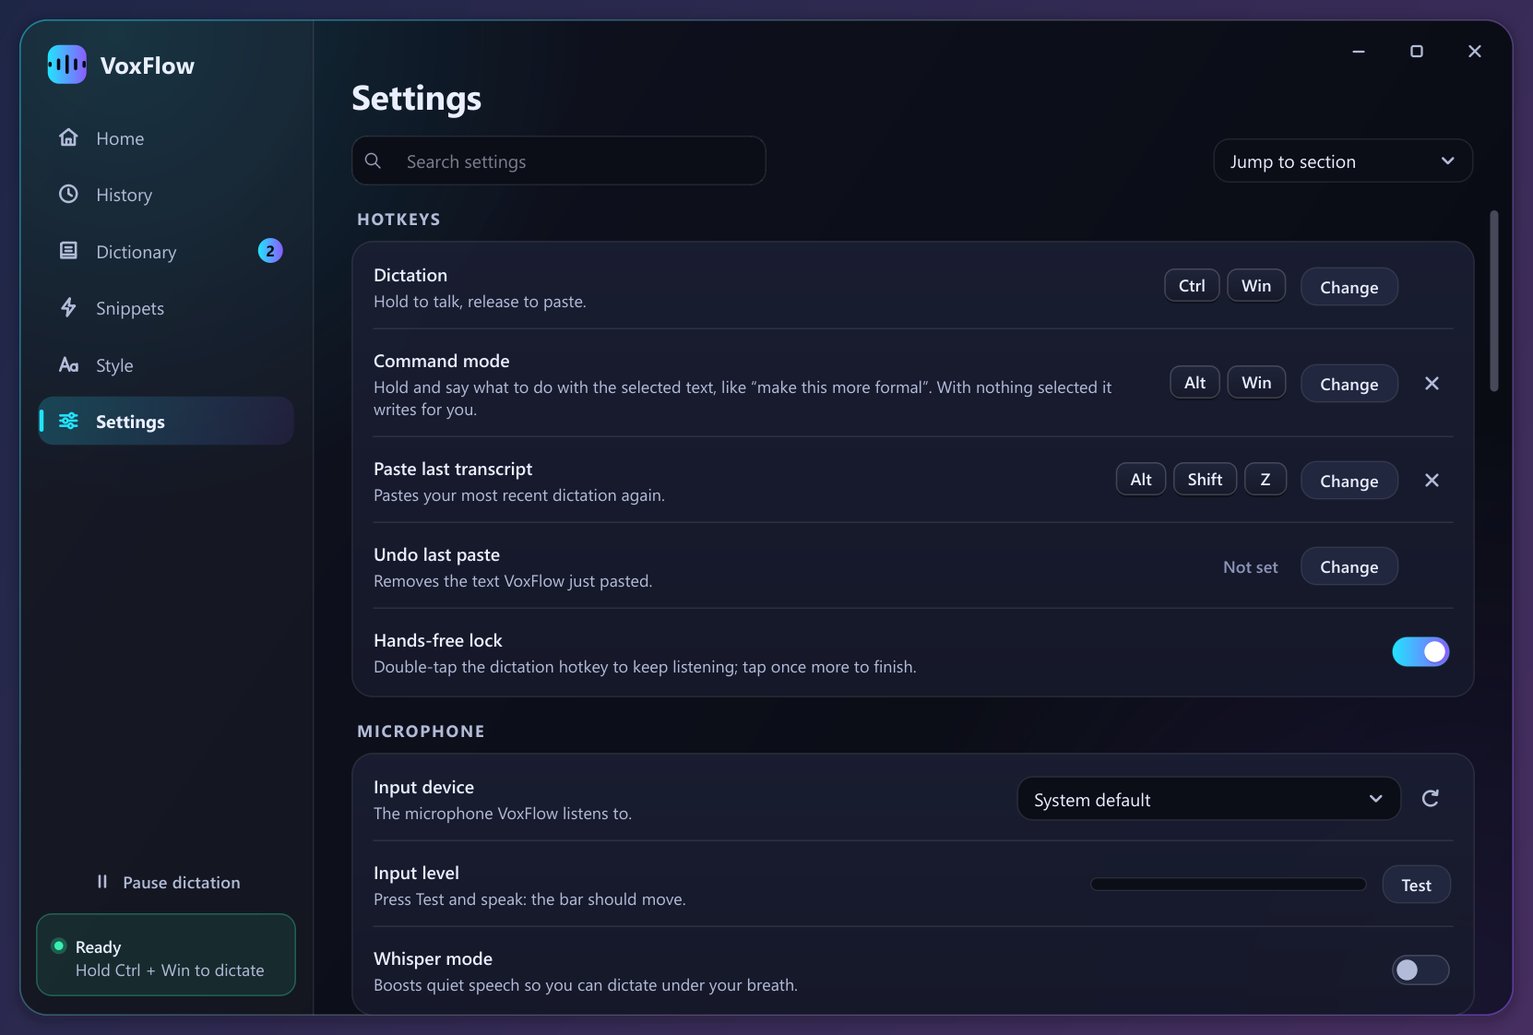
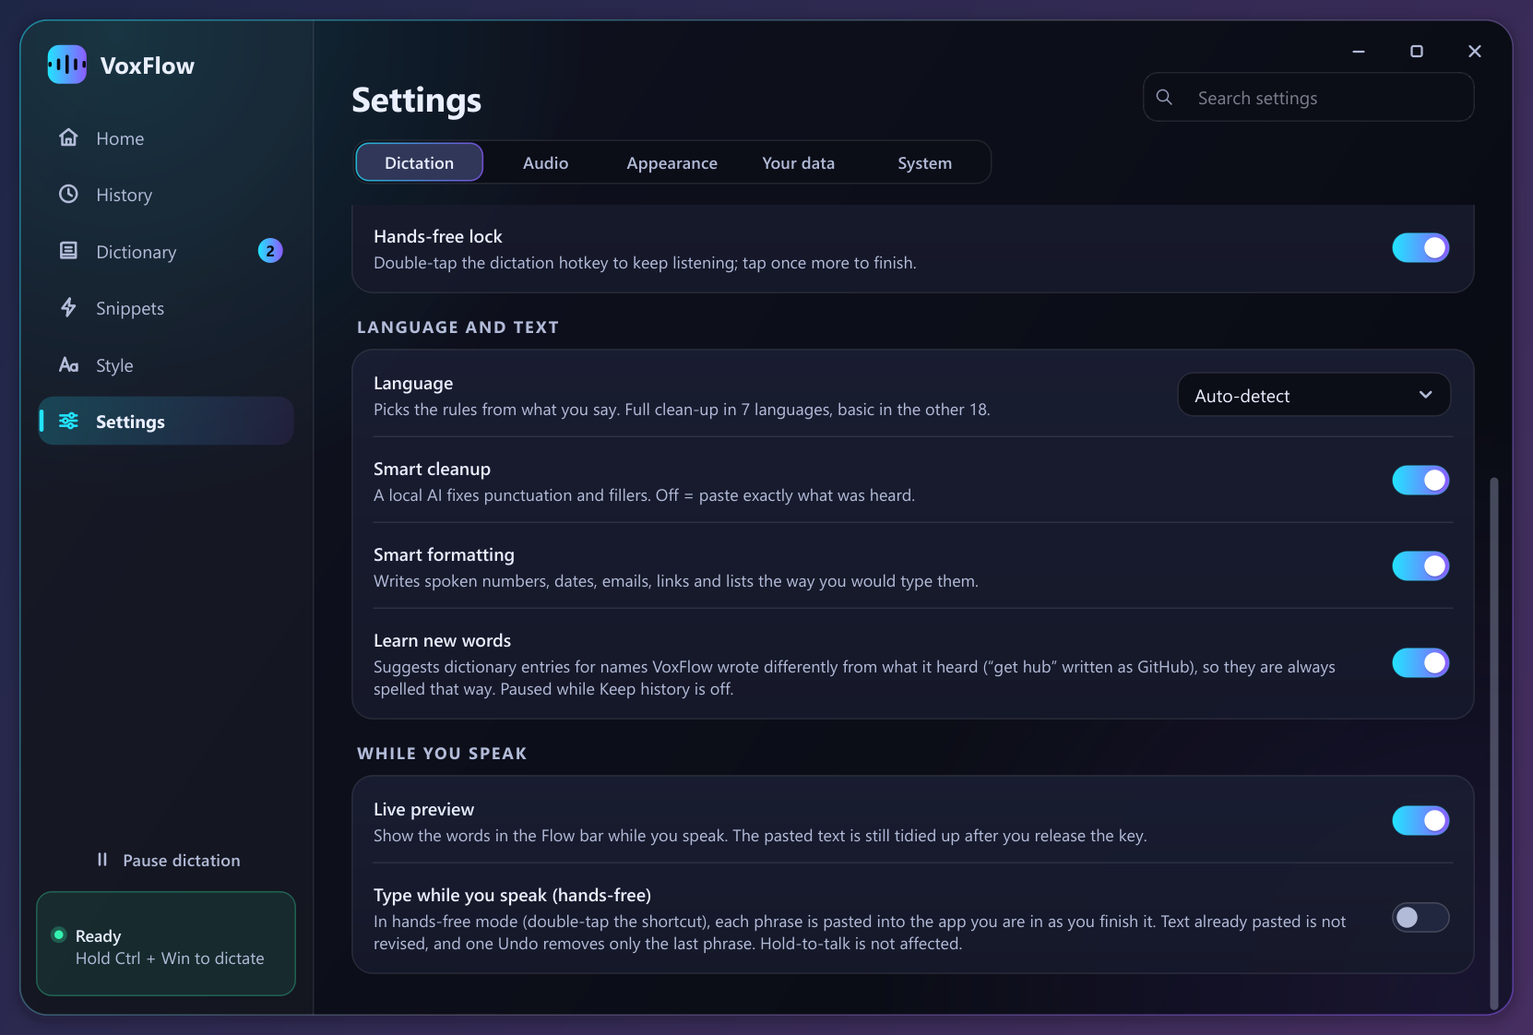
docs: README for 0.3.0: live preview and Type while you speak, Settings tabs, fresh screenshots
- New section "Live preview and Type while you speak" with an animated caption (docs/assets/live-preview.gif,
  rendered by the new scripts/caption_gif.py from the real Flow bar widget) and a hands-free caption still.
- A short "New in 0.3.0" note under the intro.
- Configuration: the five Settings tabs and what each holds; Dictation, Audio and Your data screenshots.
- Settings paths updated to the tabs (System > On-device models, System > Updates, Audio > Microphone,
  Your data > Backup and sync / History and privacy).
- Scoop note no longer says "once v0.2.1 is published".
- Home, History, Dictionary, Flow bar and Settings screenshots re-rendered from the 0.3.0 UI (scripts/demo_ui.py).
- DEVELOPMENT.md: how live-preview.gif is made; demo.gif predates the live preview.

diff --git a/scripts/caption_gif.py b/scripts/caption_gif.py
@@ -1,0 +1,123 @@
+"""Render docs/assets/live-preview.gif: the real Flow bar and its live-preview caption through one scripted
+dictation (words arriving one by one, processing, "Pasted").
+
+Runs offscreen like scripts/demo_ui.py (no window appears, no model is loaded, nothing is typed anywhere): the
+preview controller twin drives the Flow bar's states and the caption gets scripted words. Frames are saved to
+build/caption-frames/ and turned into a GIF with ffmpeg (which must be on PATH).
+
+    python scripts/caption_gif.py                  # writes docs/assets/live-preview.gif
+    python scripts/caption_gif.py --out other.gif
+"""
+from __future__ import annotations
+
+import argparse
+import os
+import shutil
+import subprocess
+import sys
+import time
+from pathlib import Path
+
+ROOT = Path(__file__).resolve().parent.parent
+FRAMES = ROOT / "build" / "caption-frames"
+FPS = 15
+WORDS = "Please move the meeting to Friday at three thirty and send the report to the team"
+
+
+def render() -> int:
+    sys.path.insert(0, str(ROOT))
+    from PySide6.QtCore import QRect
+    from PySide6.QtGui import QColor, QImage, QLinearGradient, QPainter
+    from PySide6.QtWidgets import QApplication
+
+    app = QApplication([])
+    from voxflow.ui.fakes import FakeController
+    from voxflow.ui.shell import build_ui
+
+    ctl = FakeController()
+    ctl.set("onboarding_done", True)
+    ctl.set("theme", "dark")
+    pill = build_ui(ctl, show_window=False).overlay
+    crop = QRect(10, 10, 500, 130)           # the same crop as demo_ui.py's caption shots
+    count = 0
+
+    def frame() -> None:
+        nonlocal count
+        pm = pill.grab()
+        top = pm.toImage()
+        top.setDevicePixelRatio(1.0)
+        img = QImage(top.width(), top.height(), QImage.Format.Format_ARGB32_Premultiplied)
+        p = QPainter(img)
+        g = QLinearGradient(0, 0, img.width(), img.height())      # demo_ui.py's dark desktop backdrop
+        g.setColorAt(0, QColor(30, 38, 70))
+        g.setColorAt(1, QColor(70, 46, 96))
+        p.fillRect(img.rect(), g)
+        p.drawImage(0, 0, top)
+        p.end()
+        k = pm.devicePixelRatio()
+        img = img.copy(int(crop.x() * k), int(crop.y() * k), int(crop.width() * k), int(crop.height() * k))
+        img.save(str(FRAMES / f"frame_{count:04d}.png"))
+        count += 1
+
+    def run(seconds: float) -> None:
+        """Let the widget animate in real time, saving FPS frames per second."""
+        for _ in range(int(seconds * FPS)):
+            end = time.perf_counter() + 1 / FPS
+            while time.perf_counter() < end:
+                app.processEvents()
+            frame()
+
+    ctl.demo_set_state("idle")
+    run(0.2)
+    ctl.demo_set_state("listening", "dictate", "")
+    run(0.6)
+    committed: list[str] = []
+    for word in WORDS.split():
+        pill.set_preview(" ".join(committed), word)        # the newest word is tentative until the next arrives
+        run(0.32)
+        committed.append(word)
+    pill.set_preview(" ".join(committed), "")
+    run(0.5)
+    ctl.demo_set_state("processing", "dictate", "")
+    run(0.8)
+    ctl.demo_set_state("done", "dictate", "Pasted")
+    run(1.6)
+    ctl.demo_set_state("idle")
+    run(0.6)
+    print(f"{count} frames in {FRAMES}")
+    return 0
+
+
+def main() -> int:
+    ap = argparse.ArgumentParser(description=__doc__, formatter_class=argparse.RawDescriptionHelpFormatter)
+    ap.add_argument("--out", default=str(ROOT / "docs" / "assets" / "live-preview.gif"))
+    ap.add_argument("--scale", type=int, default=150, help="UI scale in percent (default 150, as the screenshots)")
+    ap.add_argument("--child", action="store_true", help=argparse.SUPPRESS)
+    args = ap.parse_args()
+    if args.child:
+        return render()
+    ffmpeg = shutil.which("ffmpeg")
+    if ffmpeg is None:
+        print("ffmpeg is not on PATH", file=sys.stderr)
+        return 1
+    FRAMES.mkdir(parents=True, exist_ok=True)
+    for old in FRAMES.glob("*.png"):
+        old.unlink()
+    env = dict(os.environ, QT_QPA_PLATFORM="offscreen", QT_SCALE_FACTOR=str(args.scale / 100),
+               QT_ENABLE_HIGHDPI_SCALING="1")
+    fonts = Path(os.environ.get("WINDIR", "C:/Windows")) / "Fonts"
+    if fonts.is_dir():
+        env.setdefault("QT_QPA_FONTDIR", str(fonts))           # the offscreen plugin ships no fonts of its own
+    code = subprocess.call([sys.executable, str(Path(__file__).resolve()), "--child"], env=env, cwd=str(ROOT))
+    if code:
+        return code
+    palette = "split[a][b];[a]palettegen=max_colors=128:stats_mode=full[p];[b][p]paletteuse=dither=sierra2_4a"
+    code = subprocess.call([ffmpeg, "-v", "error", "-y", "-framerate", str(FPS), "-i",
+                            str(FRAMES / "frame_%04d.png"), "-vf", palette, "-loop", "0", args.out])
+    if not code:
+        print(f"wrote {args.out}")
+    return code
+
+
+if __name__ == "__main__":
+    sys.exit(main())

diff --git a/README.md b/README.md
@@ -18,6 +18,11 @@ VoxFlow is a push-to-talk dictation app for Windows 11. Hold **Ctrl + Win**, tal
 transcribed on your own machine by NVIDIA Parakeet TDT v3, tidied by a small local language model (fillers out,
 punctuation in, self-corrections resolved), and pasted into the focused window.
 
+> **New in 0.3.0:** [live preview](#live-preview-and-type-while-you-speak) shows your words above the Flow bar
+> while you speak; the optional *Type while you speak* pastes each finished sentence in hands-free mode while you
+> keep talking; and [Settings](#configuration) is now grouped into five tabs. All changes are in the
+> [changelog](CHANGELOG.md).
+
 ## Download
 
 ### [Download the latest release](https://github.com/blackknight75/voxflow/releases/latest)
@@ -36,9 +41,9 @@ scoop bucket add voxflow https://github.com/blackknight75/voxflow
 scoop install voxflow/voxflow
 ```
 
-(The winget command works once the package submission has been accepted into the winget community repository;
-the Scoop commands once v0.2.1 is published. Until then, use the installer from the Releases page. Scoop unpacks
-the app into its own folder instead of running the installer: details in
+(The Scoop bucket follows the latest release. The winget command works once the package submission has been
+accepted into the winget community repository; until then, use the installer or Scoop. Scoop unpacks the app into
+its own folder instead of running the installer: details in
 [packaging/scoop/README.md](packaging/scoop/README.md).)
 
 Good to know before you start:
@@ -103,7 +108,7 @@ hotkey to the paste for a clean sentence, **192 ms** when the language model is 
 | | |
 | --- | --- |
 | **Dictation** | Hold the hotkey to talk, release to paste. Double-tap to lock hands-free, tap again to finish. Esc cancels. |
-| **Live preview** | The words recognised so far appear above the Flow bar while you speak. A separate option, off by default, types each finished sentence into the app while you keep talking in hands-free mode (Settings > Dictation > While you speak). |
+| **Live preview** | The words recognised so far appear above the Flow bar while you speak. A separate option, off by default, types each finished sentence into the app while you keep talking in hands-free mode (Settings > Dictation > While you speak). [More below](#live-preview-and-type-while-you-speak). |
 | **Smart cleanup** | Removes "um" and "uh", fixes punctuation and capitals, resolves self-corrections ("at five, no wait, six"), understands "new line", "new paragraph", "bullet point". It never answers or obeys what you dictate. |
 | **Smart formatting** | Spoken numbers, money, percentages, dates, times, e-mail addresses, links, file names and numbered lists are written the way you would type them. |
 | **Command mode** | Hold **Alt + Win** and say what to do with the selected text ("make this more formal", "translate to Spanish", "turn into bullets"); the selection is replaced. With nothing selected it writes new text. |
@@ -116,7 +121,7 @@ hotkey to the paste for a clean sentence, **192 ms** when the language model is 
 | **Whisper mode** | Boosts quiet speech before recognition. |
 | **Sounds and media** | Soft start, stop and error cues (generated locally); optional muting of other apps while you dictate (always restored). |
 | **Flow bar** | A small always-on-top pill with a live waveform. It shows listening, hands-free, processing, done, errors, command mode and model loading. It is click-through, never takes focus, and remembers where you put it. |
-| **Main window** | Home, History, Dictionary, Snippets, Style, Settings; light, dark or system theme; a first-run setup guide. |
+| **Main window** | Home, History, Dictionary, Snippets, Style, Settings (five tabs, one search box across all of them); light, dark or system theme; a first-run setup guide. |
 | **System** | Tray icon with quick toggles, pause, launch at login, start in the tray, single instance, rotating log, crash logs kept on your PC. |
 
 <p align="center">
@@ -136,6 +141,40 @@ hotkey to the paste for a clean sentence, **192 ms** when the language model is 
 
 Team dictionaries and device sync are covered without a cloud: by packs and by the sync folder. Features that
 would need a cloud service, an account or a phone app are out of scope by design.
+
+### Live preview and Type while you speak
+
+<p align="center">
+  <img src="docs/assets/live-preview.gif" alt="The Flow bar's live-preview caption filling in word by word, then Pasted" width="560"><br>
+  <sub>Live preview: the caption fills in as you speak, and the newest word stays dimmed until the next one
+  confirms it. (Rendered from the real Flow bar with scripted words.)</sub>
+</p>
+
+**Live preview** (on by default) shows the words recognised so far in a caption above the Flow bar, so you can see
+that VoxFlow is hearing you before you let go. It is only a preview: what gets pasted is still the transcript of the
+whole recording, tidied up by the cleanup after you release the key. It works for hold-to-talk, hands-free and
+command mode. Switch it off under Settings > Dictation > While you speak. On a PC that is too slow to keep up, the
+preview pauses itself and Settings says so; dictation works as before.
+
+<p align="center">
+  <img src="docs/assets/screenshots/flow-bar-caption-handsfree.png" alt="Hands-free Flow bar with the lock icon, a timer and the live caption" width="420"><br>
+  <sub>Hands-free mode with the caption: the lock means you can let go of the hotkey.</sub>
+</p>
+
+**Type while you speak** (hands-free mode only, **off by default**) goes one step further. Double-tap the hotkey
+and each finished sentence is pasted into the app you are in while you keep talking, about 2 seconds behind your
+voice on a GPU; the last sentence is pasted when you tap the hotkey to stop. Switch it on under Settings >
+Dictation > While you speak. It is new and has had little real-world use so far, so a few things to know:
+
+* Text that is already pasted is not revised. A pause of about 1.5 seconds in the middle of a sentence is typed as
+  a sentence end.
+* The text follows the cursor: if you change windows, the next sentence goes to the new window. Nothing is pasted
+  into VoxFlow's own window; that sentence waits for the next one.
+* Undo removes the last pasted sentence only, and not while you are still dictating. History keeps one entry per
+  dictation. Snippets are not expanded in a dictation that was typed this way; the dictionary still applies.
+* On a slow PC without a GPU the preview can fall behind; typing then stops for that dictation and the rest is
+  pasted when you stop, so no words are lost.
+* Hold-to-talk and command mode are unchanged: they paste once, when you release the key.
 
 ### Languages
 
@@ -176,10 +215,10 @@ All shortcuts can be changed in Settings; an "undo last paste" shortcut is avail
 
 **First run.** The first launch opens a short setup guide (microphone check, model download, hotkey practice) and
 downloads the two models. The hotkey practice opens once the speech model is ready (straight away when it is already
-downloaded). Progress is shown in the Flow bar, in the setup guide and under Settings > On-device models; closing the
+downloaded). Progress is shown in the Flow bar, in the setup guide and under Settings > System > On-device models; closing the
 guide does not stop the download.
 
-**Backup.** Settings > Backup and sync > Export writes one `.voxbackup` file (history optional). Import shows
+**Backup.** Settings > Your data > Backup and sync > Export writes one `.voxbackup` file (history optional). Import shows
 what the file holds first and lets you tick the parts to import; *Merge* only adds what is missing (settings
 are left alone), *Replace* makes the ticked parts equal to the file. Settings that describe a computer
 (microphone, models, launch at login) are only restored on the computer the backup came from.
@@ -196,11 +235,26 @@ for this: it only reads and writes files.
 
 ## Configuration
 
-Everything can be changed on the Settings page.
+Everything can be changed on the Settings page. It is grouped into five tabs, and the search box beside the title
+looks through all of them (it also understands everyday words: "shortcut" finds every hotkey, "gpu" the device
+choices):
+
+| Tab | Sections |
+| --- | --- |
+| **Dictation** | Hotkeys, Language and text (language, smart cleanup, smart formatting, learn new words), While you speak (live preview, type while you speak) |
+| **Audio** | Microphone (input device, level test, whisper mode), Sound (cues, volume, muting other apps) |
+| **Appearance** | Theme and reduced motion, Flow bar (show when idle, position) |
+| **Your data** | History and privacy (keep history, retention, restore clipboard), Backup and sync |
+| **System** | Startup, Updates, On-device models (where each model runs, the speed check), Help and about |
 
 <p align="center">
-  <img src="docs/assets/screenshots/settings.png" alt="Settings page" width="70%">
+  <img src="docs/assets/screenshots/settings.png" alt="Settings, Dictation tab, with the While you speak section" width="70%">
 </p>
+<p align="center">
+  <img src="docs/assets/screenshots/settings-audio.png" alt="Settings, Audio tab" width="49%">
+  <img src="docs/assets/screenshots/settings-data.png" alt="Settings, Your data tab" width="49%">
+</p>
+<p align="center"><sub>The Dictation, Audio and Your data tabs.</sub></p>
 
 The file behind it is `%APPDATA%\VoxFlow\config.json`. Invalid values are replaced by the default when the file
 is loaded, numbers are clamped to the range shown, and an unreadable file is kept as `config.json.bad`.
@@ -253,7 +307,7 @@ VoxFlow is built so that there is nothing to trust: audio and text are processed
 
 * The one-time download of the two models from Hugging Face on first run (and again only if you change the
   model in the advanced settings or delete the cache). Hugging Face usage telemetry is switched off.
-* The update check (Settings > Updates), unless you set it to *Off (never check)*. Once a day, a few minutes
+* The update check (Settings > System > Updates), unless you set it to *Off (never check)*. Once a day, a few minutes
   after VoxFlow starts, and when you press *Check now*, it sends one anonymous HTTPS request to the GitHub API
   for the newest published VoxFlow release. The only identifying header is the generic User-Agent
   `VoxFlow/<version>`: no ID, no cookie, nothing about you or your PC. If you choose to install an update,
@@ -274,7 +328,7 @@ VoxFlow keeps the microphone open while it runs, also when it is paused. That is
 microphone only when you press would lose that, and a little more while the device starts. Until you hold the
 shortcut, the sound goes into a 2-second buffer in memory that is overwritten all the time. It is never written to
 disk, transcribed or sent anywhere. On a Bluetooth headset an open microphone keeps the headset in its call mode,
-which makes music sound worse: choose another microphone in Settings > Microphone (for example the PC's own)
+which makes music sound worse: choose another microphone in Settings > Audio > Microphone (for example the PC's own)
 to avoid that. Quitting VoxFlow closes the microphone.
 
 **What is stored, and where**
@@ -293,7 +347,7 @@ to avoid that. Quitting VoxFlow closes the microphone.
 | A sync folder, only if you choose one | Dictionary, snippets, styles and settings. Never history or statistics. |
 
 Recorded audio is held in memory for the transcription and is not written to disk. You can switch history off
-(Settings > History and privacy > Keep history; VoxFlow then offers to delete what is already saved), set a
+(Settings > Your data > History and privacy > Keep history; VoxFlow then offers to delete what is already saved), set a
 retention period, or clear it at any time (History > Clear all). With history off no transcript is written to disk.
 The log file never contains dictated text: errors while handling your words are logged by type and place only.
 
@@ -319,10 +373,10 @@ These are numbers from one machine, not a benchmark suite. For recognition accur
 ## FAQ and troubleshooting
 
 **Is it really offline?** Yes, after the first run. The models are downloaded once; from then on no network is
-needed. The only other request is the daily update check, which you can turn off in Settings > Updates
+needed. The only other request is the daily update check, which you can turn off in Settings > System > Updates
 (*Off (never check)*; *Check now* still works when you ask); dictation never waits for it.
 
-**How do updates work?** Settings > Updates offers three modes: *Install automatically*, *Notify me, I choose*
+**How do updates work?** Settings > System > Updates offers three modes: *Install automatically*, *Notify me, I choose*
 (the default) and *Off (never check)*. When a new version is out you get a notification and a dialog with its
 release notes and four choices: *Install now* (VoxFlow restarts, after any dictation in progress), *Install when
 I quit*, *Remind me later* (tomorrow) and *Skip this version*. In automatic mode VoxFlow downloads the update in
@@ -334,7 +388,7 @@ the SHA-256 check proves the file is the one published with the release, not who
 **Does it work without an NVIDIA GPU?** Yes. On a separate AMD or Intel graphics card with 4 GB or more, speech
 recognition uses the GPU through WebGPU and the language model through Vulkan (both were run on an NVIDIA card
 only: not yet tested on an AMD or Intel card). On a PC without a suitable card everything runs on the CPU. Plain
-dictation stays fast; on the CPU, sentences that need the language model take about 2 s. Settings > On-device
+dictation stays fast; on the CPU, sentences that need the language model take about 2 s. Settings > System > On-device
 models shows where each model runs. Integrated graphics are not used on the first start (on the one we measured,
 an AMD Radeon, both models were slower than on the CPU), but the speed check below measures them too and switches
 to one that is clearly faster on your PC.
@@ -345,7 +399,7 @@ runs a one-time speed check in the background: each device that works on your PC
 separate process at low priority, and it stops at once when you start dictating. Automatic then uses the fastest
 one, but only if it is at least 15% and 10 ms faster than the fixed choice, so a measurement can never make
 VoxFlow slower. The result is kept for this PC and measured again only after a driver, hardware or VoxFlow update,
-or when you press **Measure again** in Settings > On-device models. There you can also pick a device yourself; the
+or when you press **Measure again** in Settings > System > On-device models. There you can also pick a device yourself; the
 menu shows each measured time and why a device is unavailable. A speech recognition change applies at once; a
 language model change applies when VoxFlow restarts. `VOXFLOW_DEVICE` (see Troubleshooting) overrides all of this.
 
@@ -357,14 +411,14 @@ language model change applies when VoxFlow restarts. `VOXFLOW_DEVICE` (see Troub
 <summary><b>Troubleshooting</b></summary>
 
 * **Flow bar says "Loading / Downloading speech model":** first run downloads the models; progress is under
-  Settings > On-device models. If it failed (no internet), connect once and press **Try again** there.
+  Settings > System > On-device models. If it failed (no internet), connect once and press **Try again** there.
 * **"Speech model unavailable":** see `%APPDATA%\VoxFlow\logs\voxflow.log` (Settings > System > Help and about > Logs), then Try again.
 * **Cleanup is slow or Settings shows the cleanup model as "Limited":** the language model is not loaded and
   only the rule-based cleanup runs (command mode is off). On a source install the llama.cpp libraries are
   usually missing: run `.venv\Scripts\python.exe -m voxflow.cleanup --install-cuda` and
   `.venv\Scripts\python.exe scripts\fetch_llama_backends.py`. The log names the build that was loaded and why.
 * **Recognition is slower than about 0.1 s per 10 s of audio:** it runs on the CPU (expected without a separate
-  graphics card) or fell back to it. Check the backend in Settings > On-device models and make sure the GPU driver
+  graphics card) or fell back to it. Check the backend in Settings > System > On-device models and make sure the GPU driver
   is current; the log line `speech recognition runs on ...` says why a GPU was passed over. On a source install, make sure only
   `onnxruntime-gpu` is installed (`.venv\Scripts\python.exe -m pip list | findstr onnxruntime`).
 * **"Shortcuts unavailable":** the keyboard hook could not be installed; restart VoxFlow.
@@ -375,7 +429,7 @@ language model change applies when VoxFlow restarts. `VOXFLOW_DEVICE` (see Troub
   if it keeps happening VoxFlow shows one notice. Raising `cleanup_timeout_s` gives the model more time.
 * **Text pastes late or the old clipboard shows up in a slow app:** raise `restore_delay_s` (try `1.0`).
 * **"Microphone problem" / nothing is recorded:** choose the microphone in Settings or the tray menu, use
-  Settings > Microphone > Test, and check that Windows Settings > Privacy & security > Microphone allows
+  Settings > Audio > Microphone > Test, and check that Windows Settings > Privacy & security > Microphone allows
   desktop apps. A microphone that is unplugged while you speak ends the recording and uses what was said.
 * **"Heard only silence":** the microphone is muted or the wrong device is selected.
 * **A shortcut is refused:** it is used by another VoxFlow action, by Windows, or would get in the way of typing.

diff --git a/docs/DEVELOPMENT.md b/docs/DEVELOPMENT.md
@@ -347,4 +347,7 @@ Everything under `docs/assets/` is referenced by the README or by the GitHub rep
   model, Flow bar and paste, into a note page open in a Microsoft Edge app window. Two parts are stand-ins: the
   microphone is replaced by a recorded clip (a synthetic voice from Windows' offline speech engine), and the Flow
   bar's waveform is driven by that clip's samples. The caption shows the words in the clip; the text in the note
-  is what VoxFlow pasted.
+  is what VoxFlow pasted. It was recorded with 0.2.0, before the live preview, so its Flow bar shows no caption.
+* `live-preview.gif` is rendered by `scripts\caption_gif.py`: the real Flow bar widget, offscreen, at 150 %, with
+  scripted words fed to its live-preview caption and the preview controller twin driving its states (no model,
+  no microphone). It needs ffmpeg on PATH.
